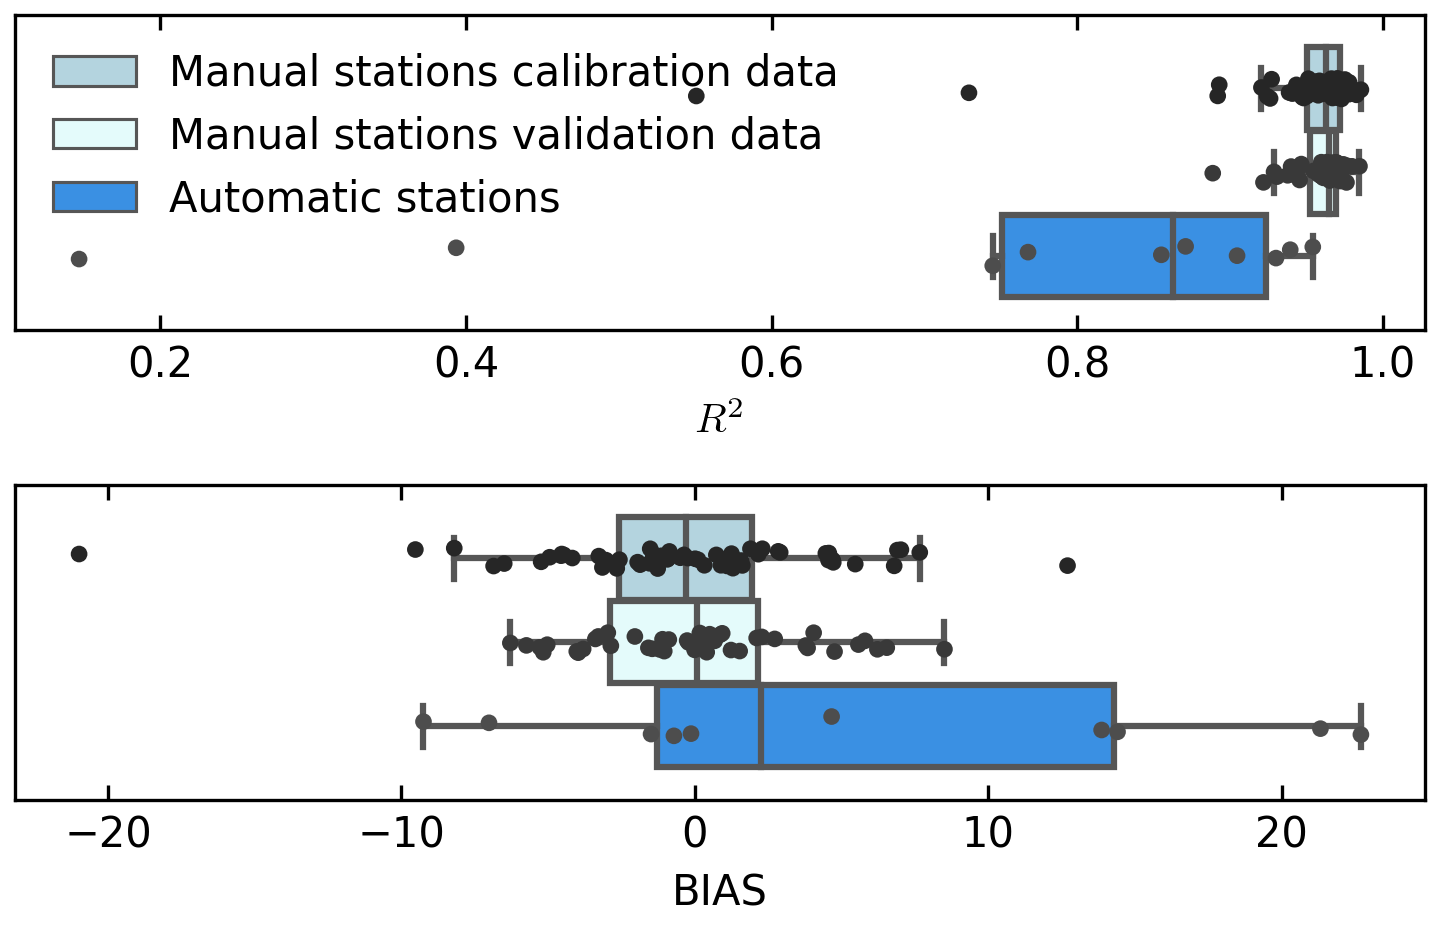
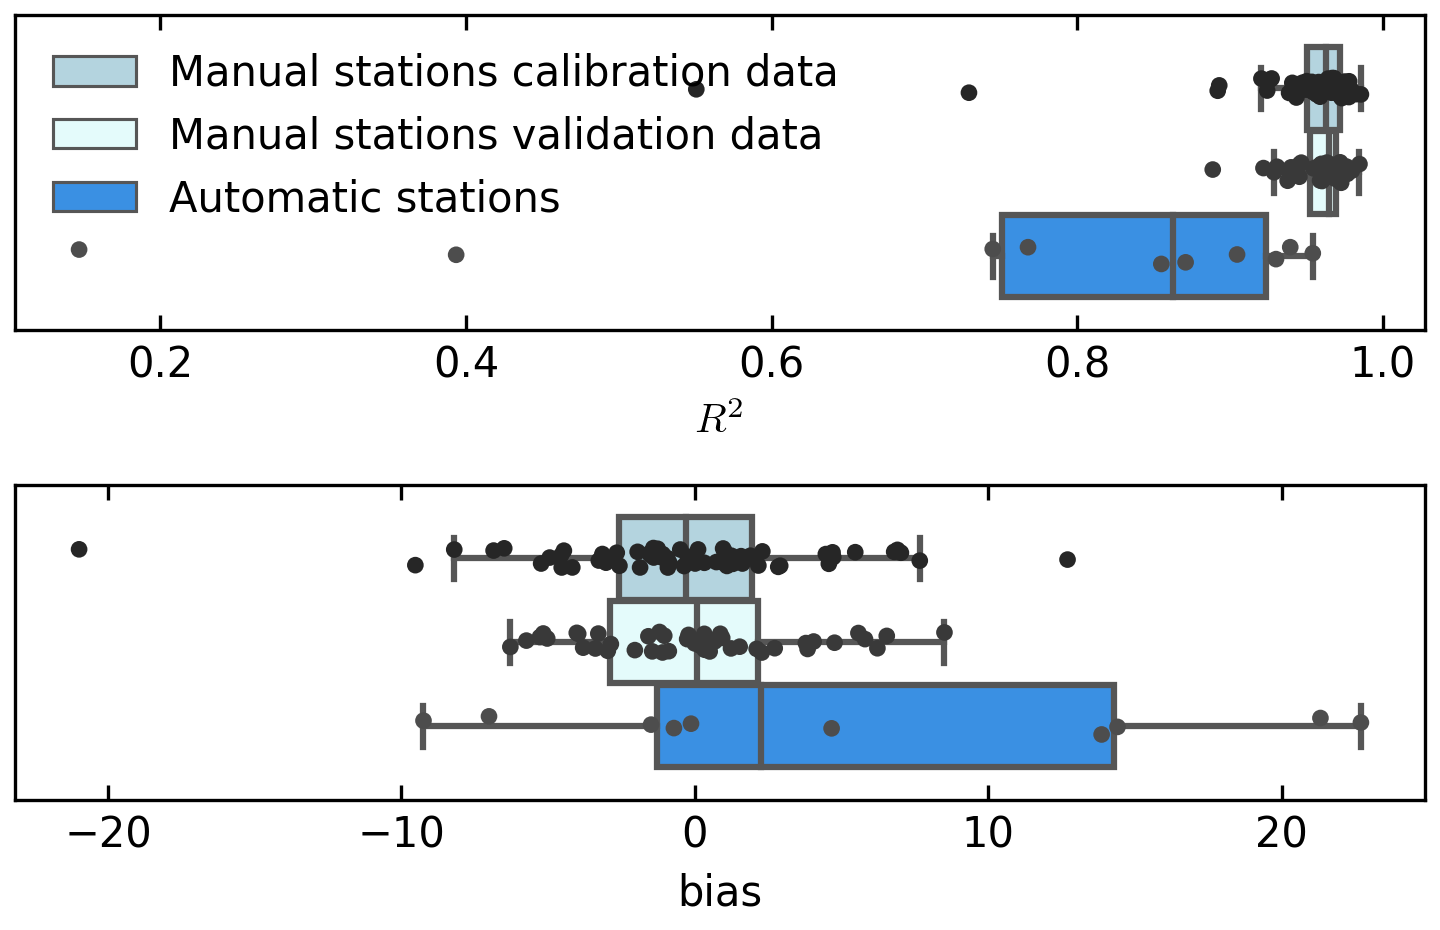
lowercase writing of "bias"

diff --git a/calibration_and_validation_figures.py b/calibration_and_validation_figures.py
@@ -333,7 +333,9 @@ def figure_03(filepath):
         ],
     )
     fig.savefig(filepath, dpi=300,
-                bbox_inches='tight', pad_inches=0.05)
+                bbox_inches='tight', 
+                # pad_inches=0.05,
+                )
     fig.clf()
     plt.close()
     return None
@@ -354,7 +356,9 @@ def figure_A01(filepath):
         ],
     )
     fig.savefig(filepath, dpi=300,
-                bbox_inches='tight', pad_inches=0.05)
+                bbox_inches='tight', 
+                # pad_inches=0.05,
+                )
     fig.clf()
     plt.close()
     return None
@@ -375,7 +379,9 @@ def figure_A02(filepath):
         ],
     )
     fig.savefig(filepath, dpi=300,
-                bbox_inches='tight', pad_inches=0.05)
+                bbox_inches='tight', 
+                # pad_inches=0.05,
+                )
     fig.clf()
     plt.close()
     return None
@@ -744,7 +750,7 @@ def figure_06(filepath):
     print(f"- creating figure_06 and saving to\n  {filepath}")
     latex_labels = {
         'r2': '$R^2$',
-        'bias': 'BIAS',
+        'bias': 'bias',
     }
     aws = (predict_and_score_per_station(DATA_AUTOMATIC_VALID, MODEL_PARAMS)
            .assign(dataset=lambda x: "Automatic stations")

diff --git a/figure_07.py b/figure_07.py
@@ -25,7 +25,7 @@ parameter_labels = {
 def nested_barplot(vars, Sis):
     var_labels = {
         'rmse': 'RMSE',
-        'bias': 'BIAS',
+        'bias': 'bias',
         'r2': '$R^2$'
     }
     # sort variables based on senistivity for first variable:
